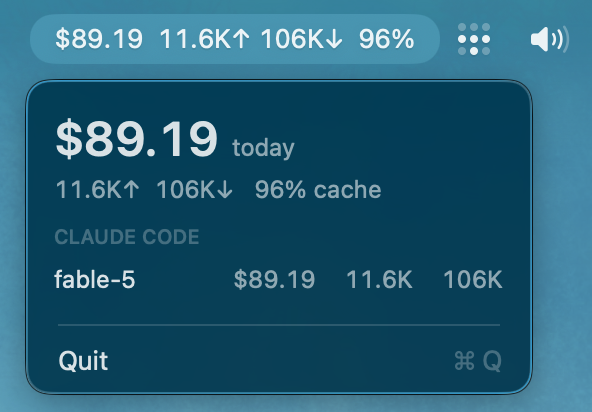
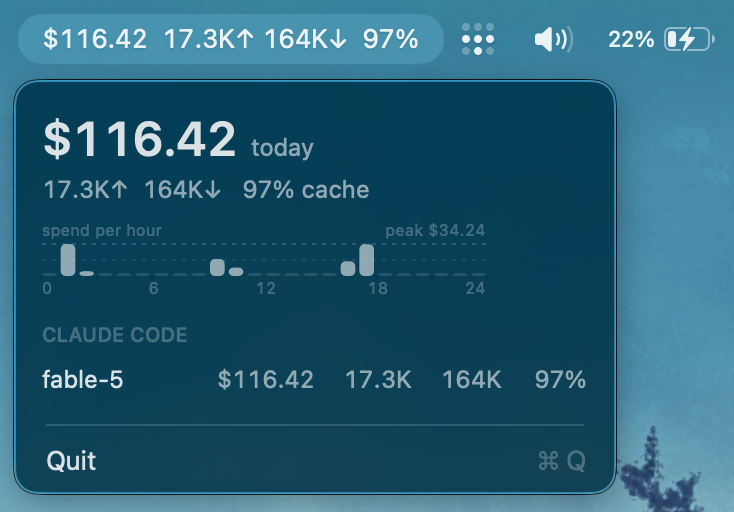
Bump version to 0.4.0; refresh screenshot

diff --git a/README.md b/README.md
@@ -3,7 +3,7 @@
 A minimal macOS menu bar app showing today's AI usage: spend, tokens in/out, and cache hit rate.
 
 <p align="center">
-  <img src="docs/screenshot.png" width="296" alt="token-bar in the menu bar with its dropdown panel open, showing today's spend, tokens, cache hit rate, and a per-model breakdown">
+  <img src="docs/screenshot.png" width="367" alt="token-bar in the menu bar with its dropdown panel open, showing today's spend, tokens, cache hit rate, and a per-model breakdown">
 </p>
 
 The numbers roll odometer-style whenever new usage lands. Click the item for a panel with the day's totals and a per-tool, per-model breakdown.